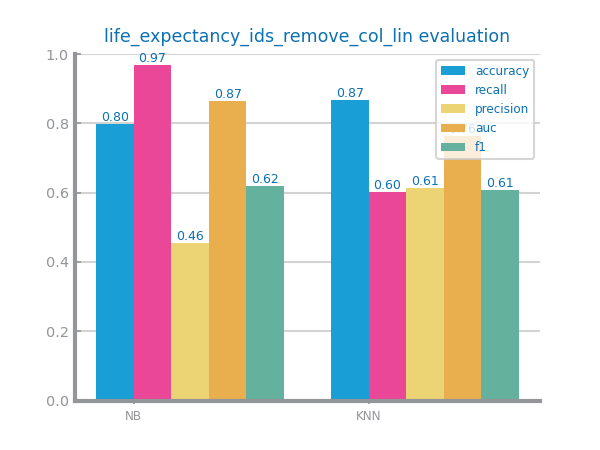
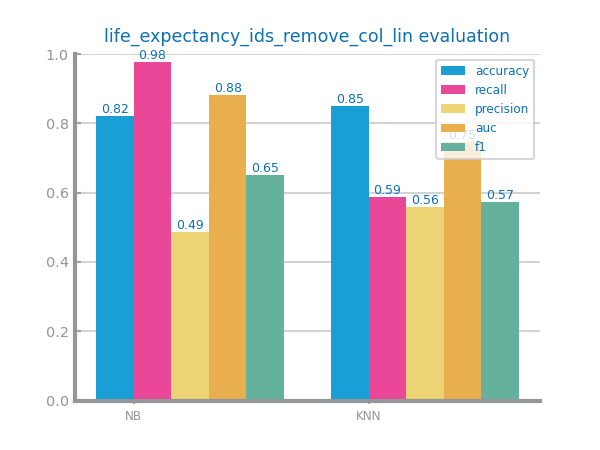
updates

diff --git a/random_forest.py b/random_forest.py
@@ -1,0 +1,127 @@
+from numpy import array, ndarray
+from matplotlib.pyplot import subplots, figure, savefig, show
+from sklearn.ensemble import RandomForestClassifier
+from dslabs_functions import (
+    CLASS_EVAL_METRICS,
+    DELTA_IMPROVE,
+    read_train_test_from_files,
+)
+from dslabs_functions import HEIGHT, plot_evaluation_results, plot_multiline_chart
+
+
+def random_forests_study(
+    trnX: ndarray,
+    trnY: array,
+    tstX: ndarray,
+    tstY: array,
+    nr_max_trees: int = 2500,
+    lag: int = 500,
+    metric: str = "accuracy",
+) -> tuple[RandomForestClassifier | None, dict]:
+    n_estimators: list[int] = [100] + [i for i in range(500, nr_max_trees + 1, lag)]
+    max_depths: list[int] = [2, 5, 7]
+    max_features: list[float] = [0.1, 0.3, 0.5, 0.7, 0.9]
+
+    best_model: RandomForestClassifier | None = None
+    best_params: dict = {"name": "RF", "metric": metric, "params": ()}
+    best_performance: float = 0.0
+
+    values: dict = {}
+
+    cols: int = len(max_depths)
+    _, axs = subplots(1, cols, figsize=(cols * HEIGHT, HEIGHT), squeeze=False)
+    for i in range(len(max_depths)):
+        d: int = max_depths[i]
+        values = {}
+        for f in max_features:
+            y_tst_values: list[float] = []
+            for n in n_estimators:
+                clf = RandomForestClassifier(
+                    n_estimators=n, max_depth=d, max_features=f
+                )
+                clf.fit(trnX, trnY)
+                prdY: array = clf.predict(tstX)
+                eval: float = CLASS_EVAL_METRICS[metric](tstY, prdY)
+                y_tst_values.append(eval)
+                if eval - best_performance > DELTA_IMPROVE:
+                    best_performance = eval
+                    best_params["params"] = (d, f, n)
+                    best_model = clf
+                # print(f'RF d={d} f={f} n={n}')
+            values[f] = y_tst_values
+        plot_multiline_chart(
+            n_estimators,
+            values,
+            ax=axs[0, i],
+            title=f"Random Forests with max_depth={d}",
+            xlabel="nr estimators",
+            ylabel=metric,
+            percentage=True,
+        )
+    print(
+        f'RF best for {best_params["params"][2]} trees (d={best_params["params"][0]} and f={best_params["params"][1]})'
+    )
+    return best_model, best_params
+
+
+file_tag = "life_expectancy_ids_df_zscore_50"
+train_filename = "data/life_expectancy_ids_df_zscore_train.csv"
+test_filename = "data/life_expectancy_ids_df_zscore_test.csv"
+target = "Status"
+eval_metric = "f1"
+
+trnX, tstX, trnY, tstY, labels, vars = read_train_test_from_files(
+    train_filename, test_filename, target
+)
+print(f"Train#={len(trnX)} Test#={len(tstX)}")
+print(f"Labels={labels}")
+
+figure()
+best_model, params = random_forests_study(
+    trnX,
+    trnY,
+    tstX,
+    tstY,
+    nr_max_trees=1000,
+    lag=250,
+    metric=eval_metric,
+)
+savefig(f"images/{file_tag}_rf_{eval_metric}_study.png")
+show()
+
+####################################################
+
+prd_trn: array = best_model.predict(trnX)
+prd_tst: array = best_model.predict(tstX)
+figure()
+plot_evaluation_results(params, trnY, prd_trn, tstY, prd_tst, labels)
+savefig(f'images/{file_tag}_rf_{params["name"]}_best_{params["metric"]}_eval.png')
+show()
+
+########################
+from numpy import std, argsort
+from dslabs_functions import plot_horizontal_bar_chart
+
+stdevs: list[float] = list(
+    std([tree.feature_importances_ for tree in best_model.estimators_], axis=0)
+)
+importances = best_model.feature_importances_
+indices: list[int] = argsort(importances)[::-1]
+elems: list[str] = []
+imp_values: list[float] = []
+for f in range(len(vars)):
+    elems += [vars[indices[f]]]
+    imp_values.append(importances[indices[f]])
+    print(f"{f+1}. {elems[f]} ({importances[indices[f]]})")
+
+figure()
+plot_horizontal_bar_chart(
+    elems,
+    imp_values,
+    error=stdevs,
+    title="RF variables importance",
+    xlabel="importance",
+    ylabel="variables",
+    percentage=True,
+)
+savefig(f"images/{file_tag}_rf_{eval_metric}_vars_ranking.png")

diff --git a/decision_trees.py b/decision_trees.py
@@ -1,0 +1,107 @@
+from typing import Literal
+from numpy import array, ndarray
+from matplotlib.pyplot import figure, savefig, show
+from sklearn.tree import DecisionTreeClassifier
+from dslabs_functions import CLASS_EVAL_METRICS, DELTA_IMPROVE, read_train_test_from_files
+from dslabs_functions import plot_evaluation_results, plot_multiline_chart
+
+
+def trees_study(
+        trnX: ndarray, trnY: array, tstX: ndarray, tstY: array, d_max: int=10, lag:int=2, metric='accuracy'
+        ) -> tuple:
+    criteria: list[Literal['entropy', 'gini']] = ['entropy', 'gini']
+    depths: list[int] = [i for i in range(2, d_max+1, lag)]
+
+    best_model: DecisionTreeClassifier | None = None
+    best_params: dict = {'name': 'DT', 'metric': metric, 'params': ()}
+    best_performance: float = 0.0
+
+    values: dict = {}
+    for c in criteria:
+        y_tst_values: list[float] = []
+        for d in depths:
+            clf = DecisionTreeClassifier(max_depth=d, criterion=c, min_impurity_decrease=0)
+            clf.fit(trnX, trnY)
+            prdY: array = clf.predict(tstX)
+            eval: float = CLASS_EVAL_METRICS[metric](tstY, prdY)
+            y_tst_values.append(eval)
+            if eval - best_performance > DELTA_IMPROVE:
+                best_performance = eval
+                best_params['params'] = (c, d)
+                best_model = clf
+            # print(f'DT {c} and d={d}')
+        values[c] = y_tst_values
+    print(f'DT best with {best_params['params'][0]} and d={best_params['params'][1]}')
+    plot_multiline_chart(depths, values, title=f'DT Models ({metric})', xlabel='d', ylabel=metric, percentage=True)
+
+    return best_model, best_params
+
+file_tag = 'life_expectancy_ids_df_zscore_50'
+train_filename = 'data/life_expectancy_ids_df_zscore_train.csv'
+test_filename = 'data/life_expectancy_ids_df_zscore_test.csv'
+
+target = 'Status'
+eval_metric = 'f1'
+
+trnX, tstX, trnY, tstY, labels, vars = read_train_test_from_files(train_filename, test_filename, target)
+print(f'Train#={len(trnX)} Test#={len(tstX)}')
+print(f'Labels={labels}')
+
+figure()
+best_model, params = trees_study(trnX, trnY, tstX, tstY, d_max=50, metric=eval_metric)
+savefig(f'images/{file_tag}_dt_{eval_metric}_study.png')
+show()
+
+prd_trn: array = best_model.predict(trnX)
+prd_tst: array = best_model.predict(tstX)
+figure()
+plot_evaluation_results(params, trnY, prd_trn, tstY, prd_tst, labels)
+savefig(f'images/{file_tag}_dt_{params["name"]}_best_{params["metric"]}_eval.png')
+show()
+
+from sklearn.tree import plot_tree
+
+from sklearn.tree import export_graphviz
+from matplotlib.pyplot import imread, imshow, axis
+from subprocess import call
+
+tree_filename: str = f"images/{file_tag}_dt_{eval_metric}_best_tree"
+max_depth2show = 3
+st_labels: list[str] = [str(value) for value in labels]
+
+
+figure(figsize=(14, 6))
+plot_tree(
+    best_model,
+    max_depth=max_depth2show,
+    feature_names=vars,
+    class_names=st_labels,
+    filled=True,
+    rounded=True,
+    impurity=False,
+    precision=2,
+)
+savefig(tree_filename + ".png")
+
+from numpy import argsort
+from dslabs_functions import plot_horizontal_bar_chart
+
+importances = best_model.feature_importances_
+indices: list[int] = argsort(importances)[::-1]
+elems: list[str] = []
+imp_values: list[float] = []
+for f in range(len(vars)):
+    elems += [vars[indices[f]]]
+    imp_values += [importances[indices[f]]]
+    print(f"{f+1}. {elems[f]} ({importances[indices[f]]})")
+
+figure()
+plot_horizontal_bar_chart(
+    elems,
+    imp_values,
+    title="Decision Tree variables importance",
+    xlabel="importance",
+    ylabel="variables",
+    percentage=True,
+)
+savefig(f"images/{file_tag}_dt_{eval_metric}_vars_ranking.png")

diff --git a/methodology.py b/methodology.py
@@ -13,28 +13,32 @@ def evaluate_approach(
     tstX: ndarray = test.values
     eval: dict[str, list] = {}
 
-    #eval_NB: dict[str, float] = run_NB(trnX, trnY, tstX, tstY, metric=metric)
+    eval_NB: dict[str, float] = run_NB(trnX, trnY, tstX, tstY, metric=metric)
     eval_KNN: dict[str, float] = run_KNN(trnX, trnY, tstX, tstY, metric=metric)
-    #if eval_NB != {} and eval_KNN != {}:
-    #    for met in CLASS_EVAL_METRICS:
-    #        eval[met] = [eval_NB[met], eval_KNN[met]]
-
-    if eval_KNN != {}:
+    if eval_NB != {} and eval_KNN != {}:
         for met in CLASS_EVAL_METRICS:
-            eval[met] = [ eval_KNN[met]]
+            eval[met] = [eval_NB[met], eval_KNN[met]]
+
+    #if eval_KNN != {}:
+    #    for met in CLASS_EVAL_METRICS:
+    #        eval[met] = [ eval_KNN[met]]
     return eval
 
 
+'''target = "Status"
+file_tag = "life_expectancy_ids_minmax"
+train: DataFrame = read_csv("data/life_expectancy_ids_df_minmax_train.csv")
+test: DataFrame = read_csv("data/life_expectancy_ids_df_minmax_test.csv")'''
 target = "Status"
-file_tag = "life_expectancy_ids_zscore"
+file_tag = "life_expectancy_ids_zscore-over"
 train: DataFrame = read_csv("data/life_expectancy_ids_df_zscore_train.csv")
 test: DataFrame = read_csv("data/life_expectancy_ids_df_zscore_test.csv")
 
 figure()
-eval: dict[str, list] = evaluate_approach(train, test, target=target, metric="recall")
+eval: dict[str, list] = evaluate_approach(train, test, target=target, metric="f1")
 plot_multibar_chart(
-    ["KNN"], eval, title=f"{file_tag} evaluation", percentage=True
-    #["NB", "KNN"], eval, title=f"{file_tag} evaluation", percentage=True
+    #["KNN"], eval, title=f"{file_tag} evaluation", percentage=True
+    ["NB", "KNN"], eval, title=f"{file_tag} evaluation", percentage=True
 )
-savefig(f"images/{file_tag}_eval.png")
+#savefig(f"images/{file_tag}_eval.png")
 show()

diff --git a/knn_eval.py b/knn_eval.py
@@ -35,8 +35,8 @@ def knn_study(
 
     return best_model, best_params
 
-file_tag = 'life_expectancy_ids_df_zscore_51'
-train_filename = 'data/life_expectancy_ids_df_zscore_train.csv'
+file_tag = 'life_expectancy_ids_df_zscore_over_51'
+train_filename = 'data/life_expectancy_ids_df_zscore_train_over.csv'
 test_filename = 'data/life_expectancy_ids_df_zscore_test.csv'
 target = 'Status'
 eval_metric = 'f1'
@@ -47,14 +47,14 @@ print(f'Labels={labels}')
 
 figure()
 best_model, params = knn_study(trnX, trnY, tstX, tstY, k_max=51, metric=eval_metric)
-savefig(f'images/{file_tag}_knn_{eval_metric}_study.png')
+#savefig(f'images/{file_tag}_knn_{eval_metric}_study.png')
 show()
 
 prd_trn: array = best_model.predict(trnX)
 prd_tst: array = best_model.predict(tstX)
 figure()
 plot_evaluation_results(params, trnY, prd_trn, tstY, prd_tst, labels)
-savefig(f'images/{file_tag}_knn_{params["name"]}_best_{params["metric"]}_eval.png')
+#savefig(f'images/{file_tag}_knn_{params["name"]}_best_{params["metric"]}_eval.png')
 show()
 
 from matplotlib.pyplot import figure, savefig
@@ -82,5 +82,5 @@ plot_multiline_chart(
     ylabel=str(eval_metric),
     percentage=True,
 )
-savefig(f"images/{file_tag}_knn_overfitting.png")
+#savefig(f"images/{file_tag}_knn_overfitting.png")
 show()

diff --git a/dslabs_functions.py b/dslabs_functions.py
@@ -615,12 +615,19 @@ CLASS_EVAL_METRICS: dict[str, Callable] = {
 
 
 def run_NB(trnX, trnY, tstX, tstY, metric: str = "accuracy") -> dict[str, float]:
-    estimators: dict[str, GaussianNB | MultinomialNB | BernoulliNB] = {
+    #estimators: dict[str, GaussianNB | MultinomialNB | BernoulliNB] = {
+    #    "GaussianNB": GaussianNB(),
+    #    "MultinomialNB": MultinomialNB(),
+    #    "BernoulliNB": BernoulliNB(),
+    #}
+    estimators: dict[str, GaussianNB | BernoulliNB] = {
         "GaussianNB": GaussianNB(),
-        "MultinomialNB": MultinomialNB(),
         "BernoulliNB": BernoulliNB(),
     }
-    best_model: GaussianNB | MultinomialNB | BernoulliNB = None  # type: ignore
+    
+    #best_model: GaussianNB | MultinomialNB | BernoulliNB = None  # type: ignore
+    best_model: GaussianNB | BernoulliNB = None  # type: ignore
+
     best_performance: float = 0.0
     eval: dict[str, float] = {}
 
